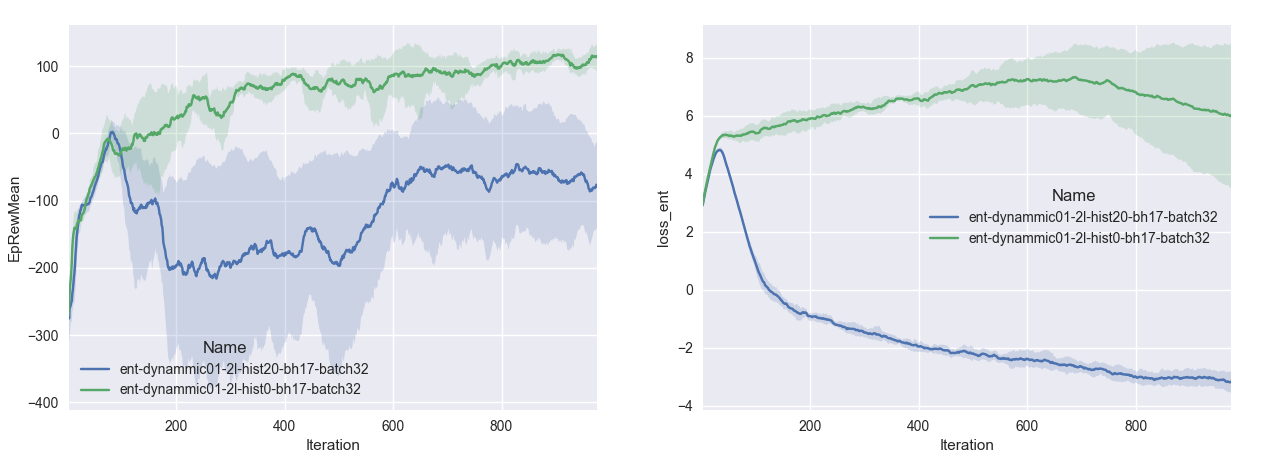
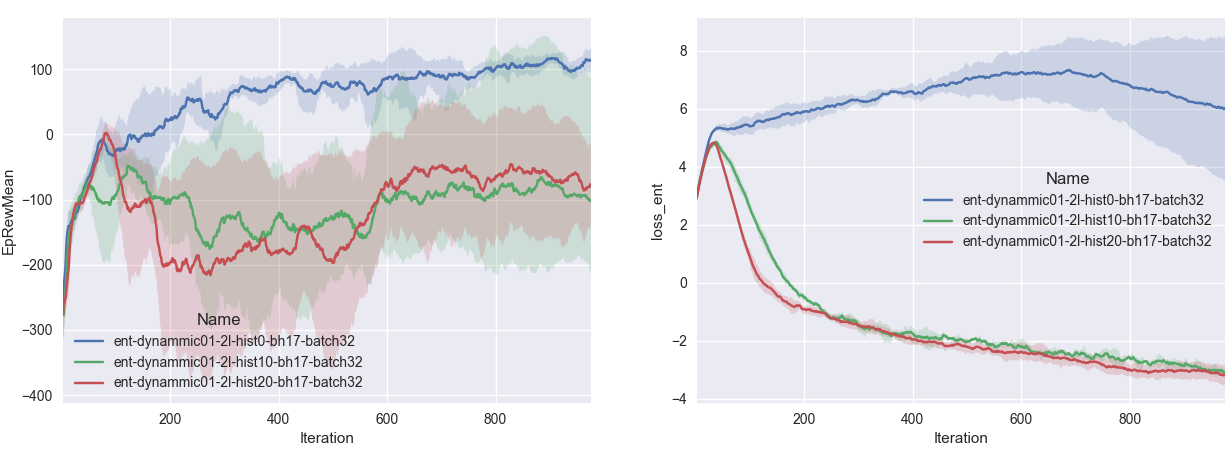
update

diff --git a/_posts/2018-05-06-POMDPs.md b/_posts/2018-05-06-POMDPs.md
@@ -53,12 +53,21 @@ We will test the following parameters of different PPO versions
 |Entropy-dynamic| 20 | 0.5H-0.625H  |
 
 <img src="/images/POMDP/imgs/clip-3l-bh17-histcompare.png" style="width: 700px;">
-PPO clip with block hight 0.5H-0.5325H, compare history length 0, 10, 20
+PPO clip with block hight 0.5H-0.5325H, compare performance with history length 0, 10, 20
 <img src="/images/POMDP/imgs/ent2-2l-bh17-histcompare.png" style="width: 700px;">
-PPO constant entropy with block hight 0.5H-0.5325H, compare history length 0, 10, 20
+PPO constant entropy with block hight 0.5H-0.5325H, compare performance with history length 0, 10, 20
 <img src="/images/POMDP/imgs/ent-dynamic-bh17-histcompare.png" style="width: 700px;">
-PPO dynamic entropy with same block hight, compare history length 0, 20
+PPO dynamic entropy with same block hight 0.5H-0.5325H, compare performance with history length 0, 10, 20
+<img src="/images/POMDP/imgs/ent-dynamic-bh9-histcompare.png" style="width: 700px;">
+PPO dynamic entropy with same block hight 0.5H-0.5625H, compare performance with history length 0, 10, 20
+<img src="/images/POMDP/imgs/ent-dynamic-bh5-histcompare.png" style="width: 700px;">
+PPO dynamic entropy with same block hight 0.5H-0.625H, compare performance with history length 0, 10, 20
+<img src="/images/POMDP/imgs/ent-dynamic-hist0-bhcompare.png" style="width: 700px;">
+PPO dynamic entropy with same history length=0, compare performance with different block area size 
+
 
 As we can see from above curves, the performance became poorer as history length increases, all algorithms worked better for smaller block area, 
 and PPO with entropy dynamic outperforms else algorithms. 
 
+## Questions
+-- Why history info doesn't help in this case?
